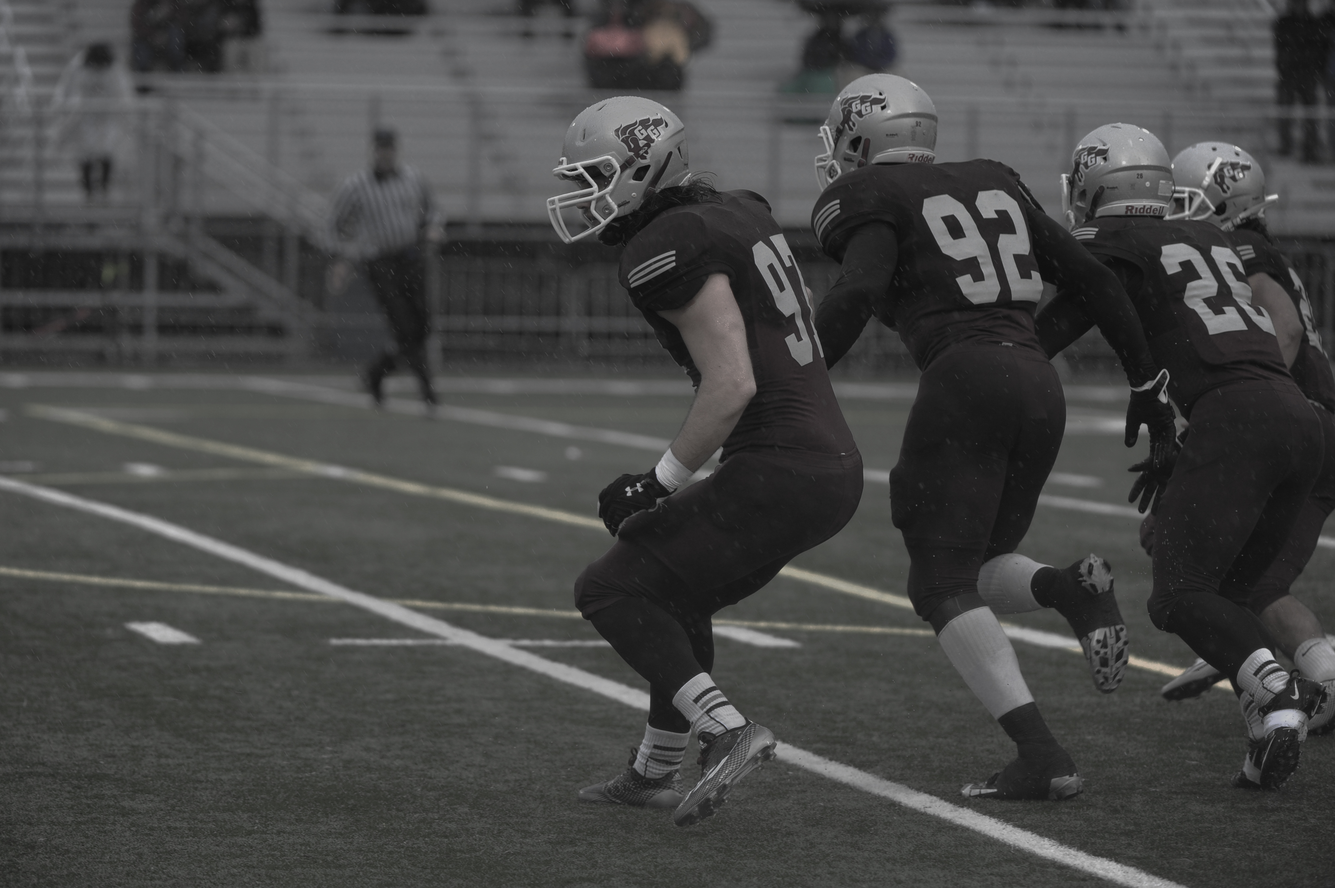
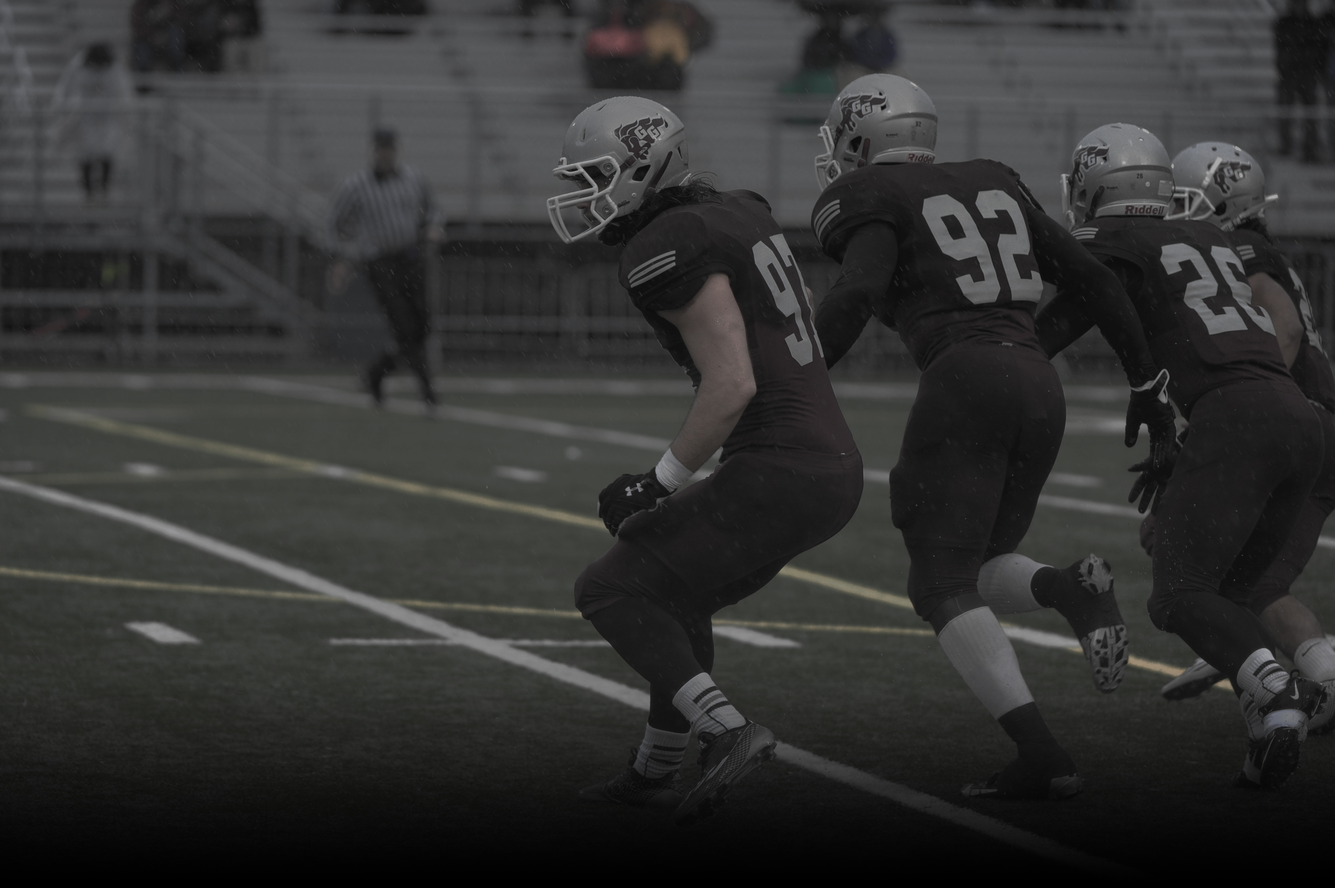
Improved CSS spacing, added new KOR widescreen img

diff --git a/index.html b/index.html
@@ -89,41 +89,41 @@
 </header>
 
 <!-- Skills Section -->
-<section id="skills" class="container about-section text-center">
-    <div class="container">
+<section id="skills" class="container content-section text-center">
+    <div class="skills-section">
+    <!--<div class="container">-->
         <h1>Skills</h1>
-            <!--<div class="row">-->
-                <div class="col-lg-8 col-md-8">
-                    <h2>Languages</h2>
-                    <div class="row">
-                    <div class="col-lg-6 col-md-6">
-                    <h3>Proficient</h3>
+            <div class="col-lg-8 col-md-8">
+                <h2>Languages</h2>
+                <div class="row">
+                <div class="col-lg-6 col-md-6">
+                <h3>Proficient</h3>
+                <ul class="list-unstyled">
+                    <li>Java</li>
+                    <li>PHP</li>
+                    <li>Python</li>
+                    <li>HTML5 &amp; CSS3</li>
+                </ul>
+                </div>
+                <div class="col-lg-6 col-md-6">
+                    <h3>Intermediate</h3>
                     <ul class="list-unstyled">
-                        <li>Java</li>
-                        <li>PHP</li>
-                        <li>Python</li>
-                        <li>HTML5 &amp; CSS3</li>
+                        <li>JavaScript</li>
+                        <li>SQL</li>
+                        <li>C++</li>
                     </ul>
                     </div>
-                    <div class="col-lg-6 col-md-6">
-                        <h3>Intermediate</h3>
-                        <ul class="list-unstyled">
-                            <li>JavaScript</li>
-                            <li>SQL</li>
-                            <li>C++</li>
-                        </ul>
-                        </div>
-                    </div>
                 </div>
-                <div class="col-lg-4 col-md-4">
-                    <h2>Technologies</h2>
-                    <ul class="list-unstyled">
-                        <li>Git</li>
-                        <li>Eclipse, IDEA</li>
-                        <li>Photoshop</li>
-                    </ul>
-                </div>
-            <!--</div>-->
+            </div>
+            <div class="col-lg-4 col-md-4">
+                <h2>Technologies</h2>
+                <ul class="list-unstyled">
+                    <li>Git</li>
+                    <li>Eclipse, IDEA</li>
+                    <li>Photoshop</li>
+                </ul>
+            </div>
+        <!--</div>-->
     </div>
 </section>
 

diff --git a/css/grayscale.css b/css/grayscale.css
@@ -258,14 +258,14 @@ a:focus {
 }
 
 .content-section {
-    padding-top: 100px;
+    padding-top: 50px;
 }
 
 .work-section {
     width: 100%;
     padding: 50px 0;
     color: #fff;
-    background: url(../img/KOR.jpg) no-repeat center center scroll;
+    background: url(../img/KOR.jpg) no-repeat bottom center scroll;
     background-color: #000;
     -webkit-background-size: cover;
     -moz-background-size: cover;
@@ -278,7 +278,7 @@ a:focus {
     width: 100%;
     padding: 50px 0;
     color: #fff;
-    background: url(../img/KOR.jpg) no-repeat center center scroll;
+    background: url(../img/MTL.jpg) no-repeat bottom center scroll;
     background-color: #000;
     -webkit-background-size: cover;
     -moz-background-size: cover;
@@ -293,18 +293,19 @@ a:focus {
     margin-top: 100px;
 }
 
-@media(min-width:767px) {
+@media(min-width:1200px) {
     .content-section {
-        padding-top: 250px;
+        padding-top: 50px;
     }
 
     .work-section {
         padding: 100px 0;
+        background: url(../img/KOR-largescreen.jpg) no-repeat bottom center scroll;
     }
 
     #map {
         height: 400px;
-        margin-top: 250px;
+        margin-top: 100px;
     }
 }
 

diff --git a/css/custom.css b/css/custom.css
@@ -17,3 +17,12 @@ section#skills {
 .icon-descrip {
     color: rgba(255, 255, 255, 0.5);
 }
+
+.content-section {
+    padding-top: 50px;
+    padding-bottom: 50px;
+}
+
+.skills-section {
+    padding-top: 25px;
+}
